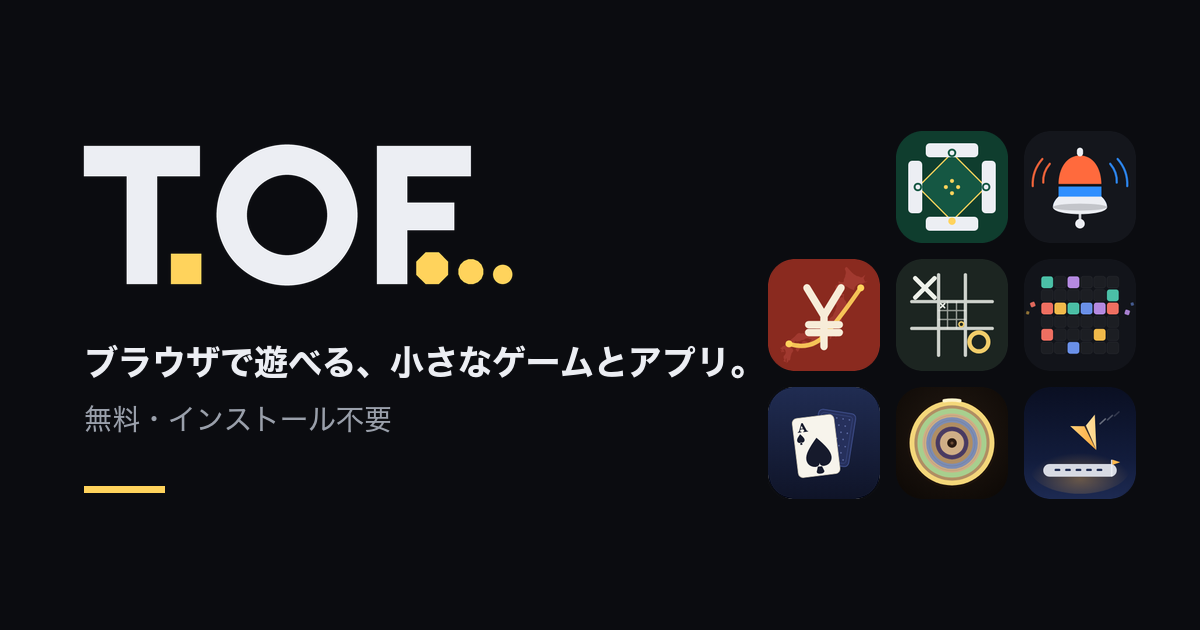
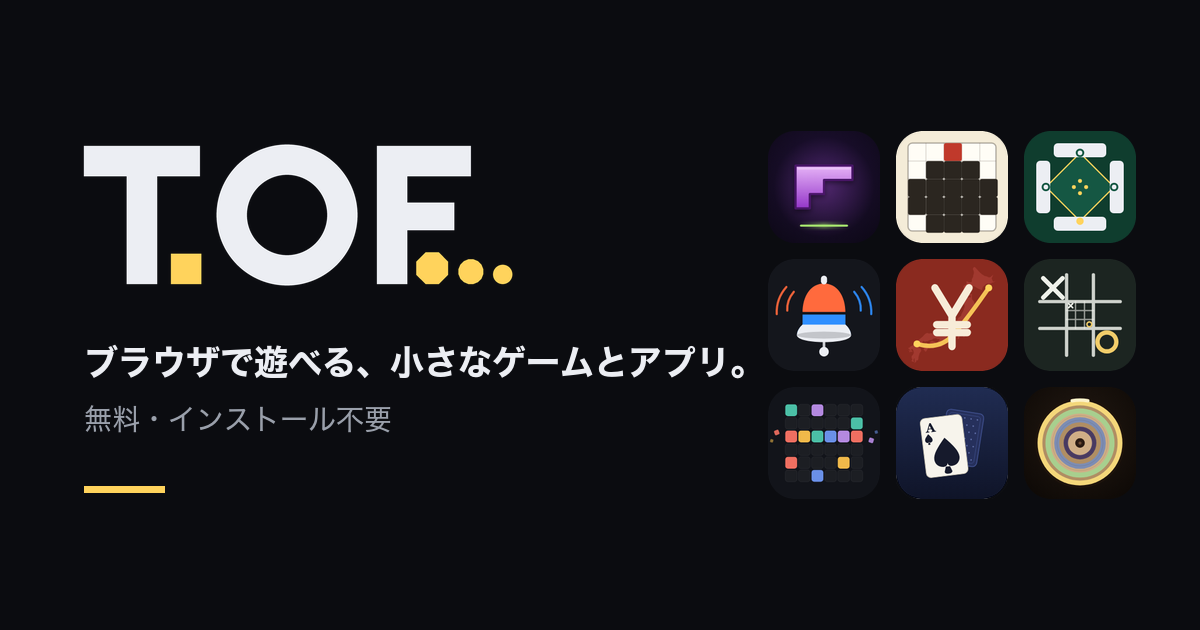
SEPTET をポータルと共有画像に追加する
- apps.js の先頭に SEPTET のエントリを追加
- python3 tools/make-icons.py で新しい og.png を生成

Changed region(s): [[0.6167, 0.181, 0.9558, 0.8143]]

diff --git a/apps.js b/apps.js
@@ -23,6 +23,16 @@
 
 window.TOFO_APPS = [
   {
+    id: 'septet',
+    name: 'SEPTET',
+    title: '7 マスのブロックで列を消す',
+    desc: '7 マスのブロック「ヘプトミノ」全 107 種を落として、横の列をそろえて消すパズル。7 列を一度に消す SEPTET を狙う。機械学習で育てた AI のプレイも観戦できる。',
+    category: 'game',
+    tags: ['パズル', 'AI'],
+    icon: '/septet/icons/icon-192.png',
+    color: '#12100e',
+  },
+  {
     id: 'ink-tally',
     name: 'INK TALLY',
     title: '数字を手がかりに絵を塗り出す',
